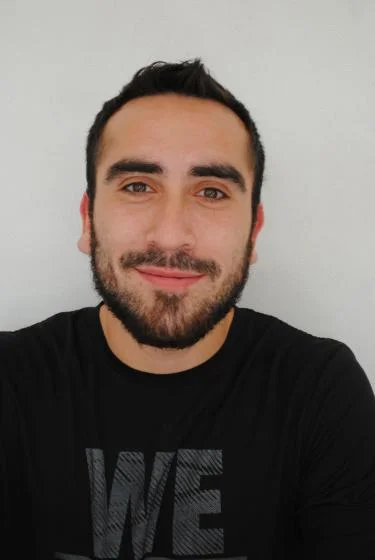
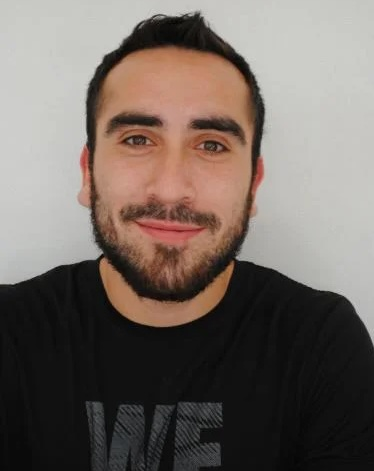
update

diff --git a/index.html b/index.html
@@ -43,12 +43,10 @@
 
 				<!-- Header -->
 					<header id="header">
-						<div class="logo">
-							<span class="icon fa-gem"></span>
-						</div>
 						<div class="content">
 							<div class="inner">
 								<h1>J. Rafael Fuentes</h1>
+								<!--<img src="images/me2.jpg" style="width:280px; height:280px; object-fit: cover;">-->
 								<p text-align="center">Welcome! I'm an astrophysicist in the Department of Applied Mathematics at the University of Colorado, Boulder. 
 									<br>You can have a look at my <a href="https://drive.google.com/file/d/1_TMTJivLQo5J7bDfis4oxjsWZW_IcEak/view?usp=share_link"><span>CV</span></a></p>
 							</div>
